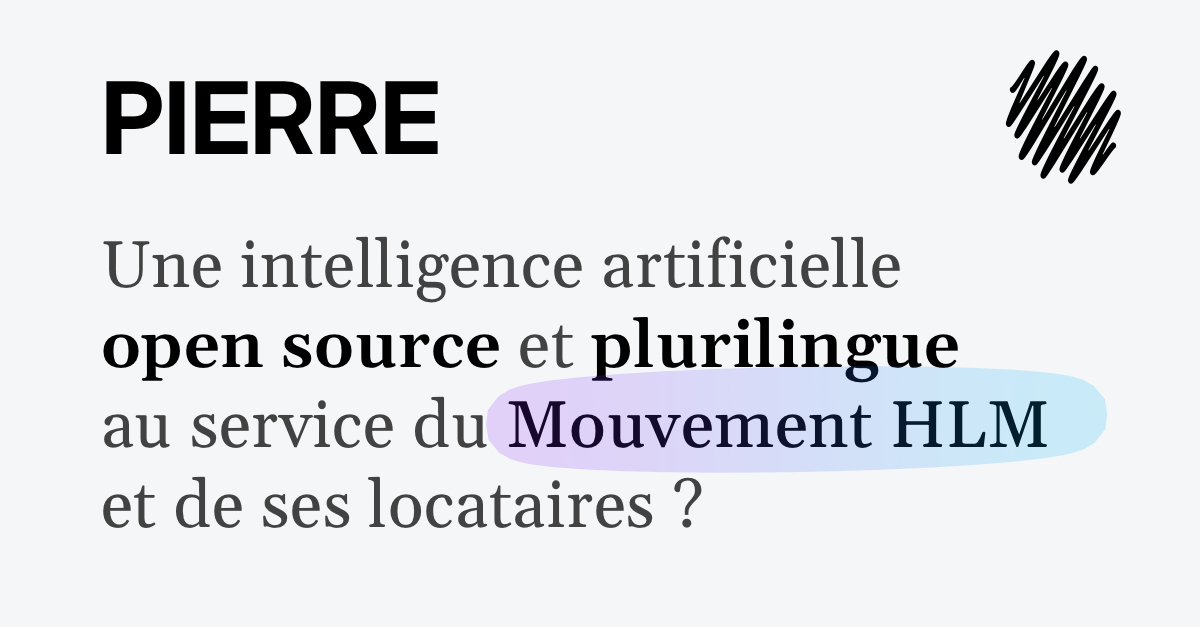
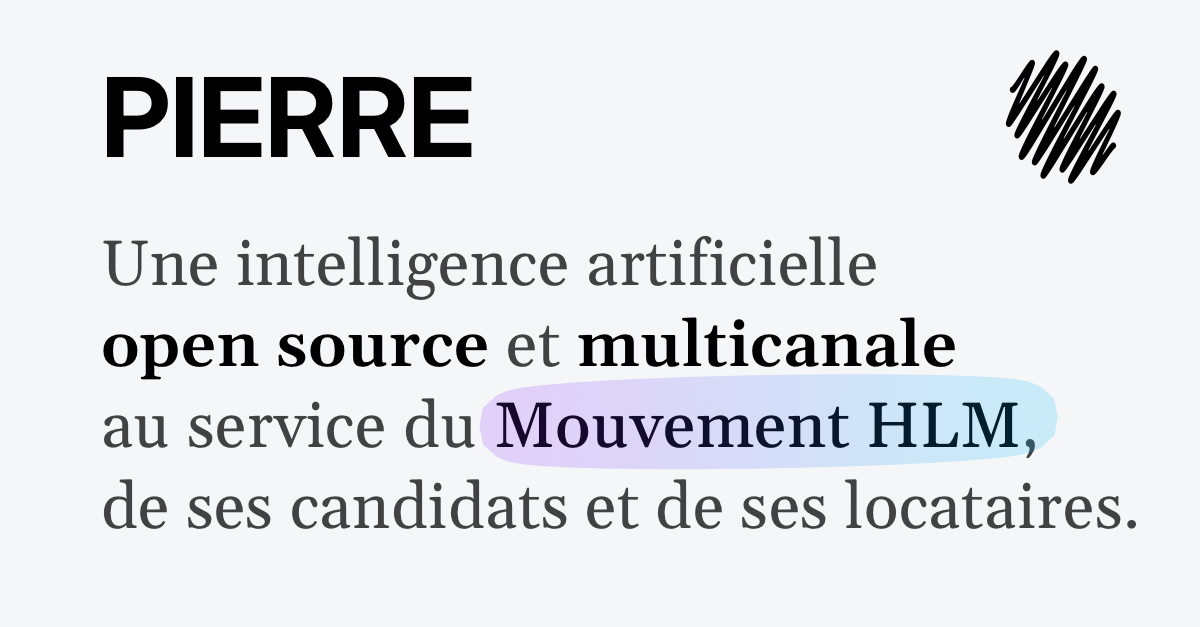
chore:

Changed region(s): [[0.0925, 0.4848, 0.9558, 0.8485], [0.0925, 0.3636, 0.7708, 0.4848], [0.0925, 0.1212, 0.4008, 0.2727]]

diff --git a/docs/index.html b/docs/index.html
@@ -18,8 +18,8 @@
       ses locataires"
     />
 
-    <meta property="og:title" content="PIERRE — Essayez l'IA open source du mouvement HLM !" />
-    <meta property="title" content="PIERRE — Essayez l'IA open source du mouvement HLM !" />
+    <meta property="og:title" content="PIERRE — Essayez l'IA open source, plurilingue et multicanale du mouvement HLM !" />
+    <meta property="title" content="PIERRE — Essayez l'IA open source, plurilingue et multicanale du mouvement HLM !" />
     <meta name="image" property="og:image" content="assets/images/pierre.png" />
     <meta property="og:image" content="assets/images/pierre.png" />
     <meta property="og:url" content="https://pierre-ia.org" />
